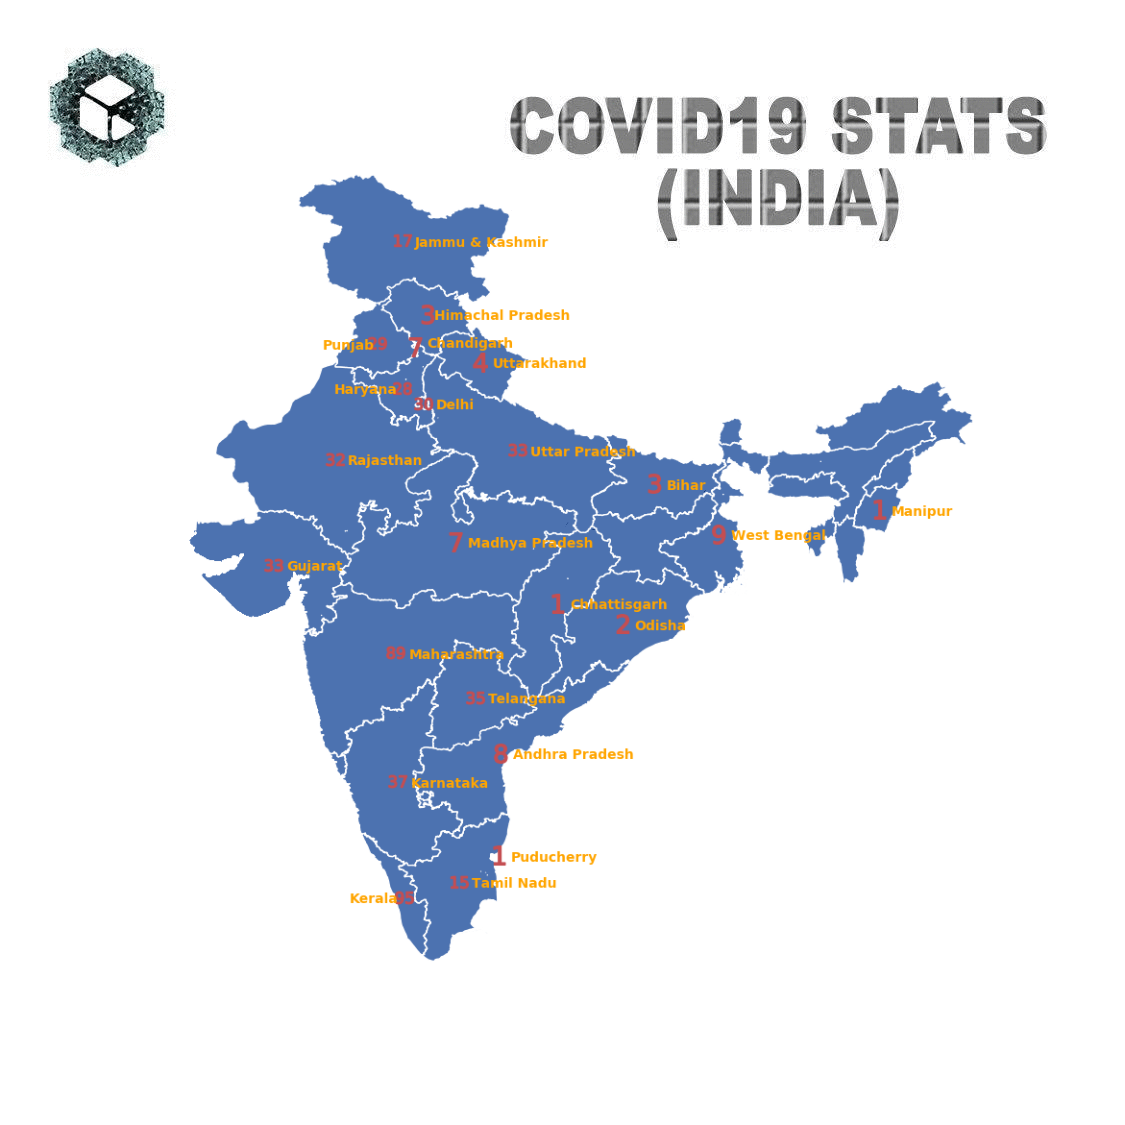
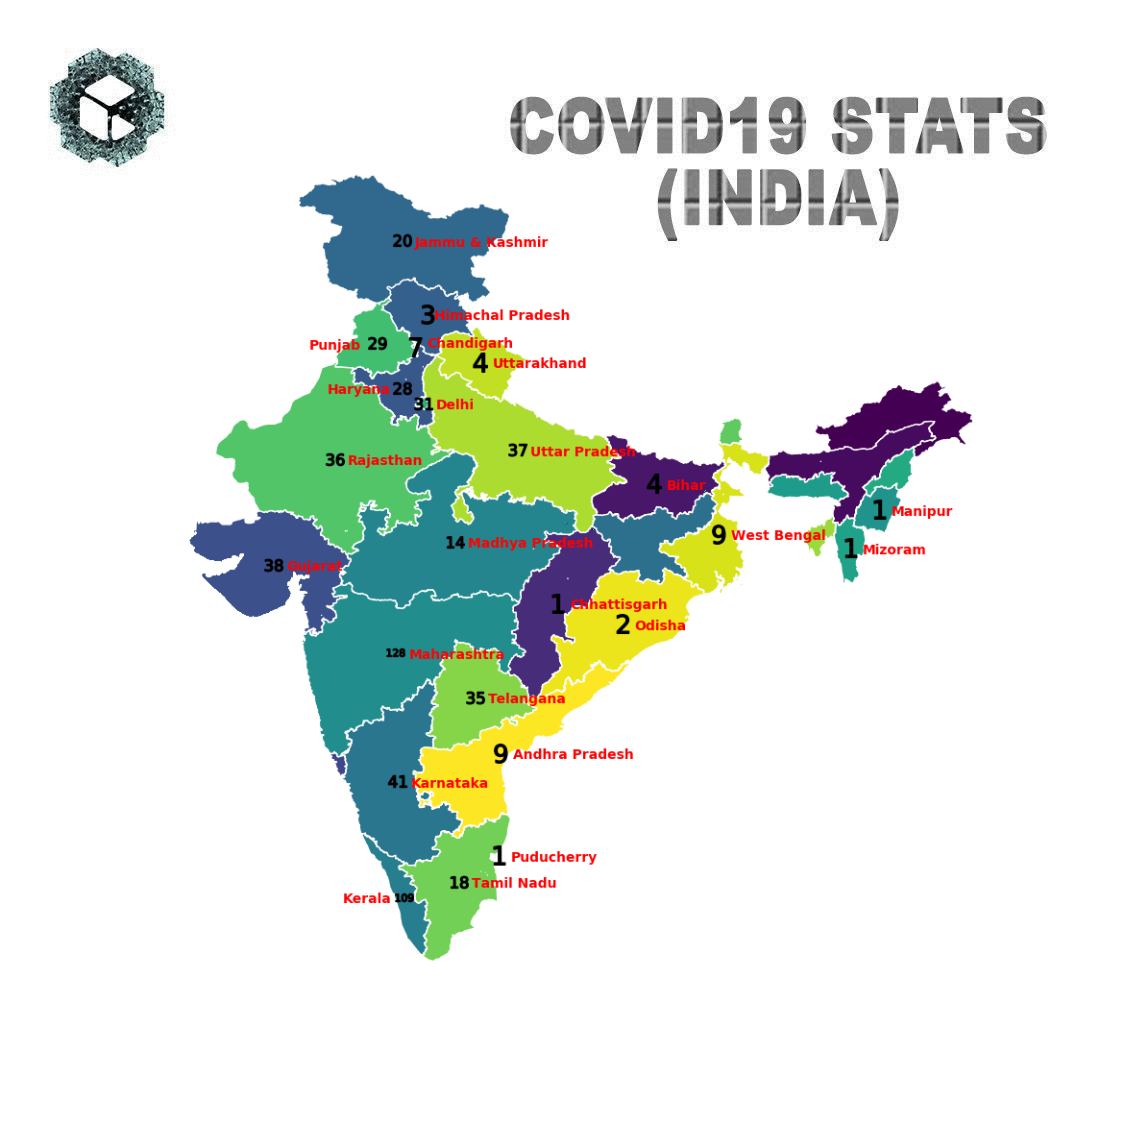
Final Corrections

Changed region(s): [[0.1556, 0.1556, 0.8711, 0.8711]]

diff --git a/map_generator.py b/map_generator.py
@@ -11,99 +11,90 @@ import json
 import urllib3
 # def calc_colour(value):
 
+if __name__ == "__main__":
+    # Load the JSON File and Fetch the Data
+    http = urllib3.PoolManager()
+    r = http.request('GET', 'http://corona.camcann.com/stats')
+    data =  json.loads(r.data.decode('utf-8'))
+    new = pd.DataFrame.from_dict(data['data']['regional'])
 
-# Load the JSON File and Fetch the Data
-http = urllib3.PoolManager()
-r = http.request('GET', 'http://corona.camcann.com/stats')
-data =  json.loads(r.data.decode('utf-8'))
-new = pd.DataFrame.from_dict(data['data']['regional'])
-
-# Including the Ladakh UT stats along with Jammu and Kashmir Region Only and other Mofifications
-for x in new.columns[:-1]:
-    new.loc[new['loc'] == 'Jammu and Kashmir',x] =   int(new.loc[new['loc'] == 'Jammu and Kashmir'][x].values + new.loc[new['loc'] == 'Ladakh'][x].values)
-new.drop(new[new['loc'] == 'Ladakh'].index, inplace = True)
-new.loc[new['loc'] == 'Telengana', 'loc'] = 'Telangana'
-new.loc[new['loc'] == 'Jammu and Kashmir', 'loc'] = 'Jammu & Kashmir'
-new.reset_index(level=0, inplace=True)
-new.drop('index', axis = 1,inplace = True)
-new.columns = ['confirmedCasesForeign', 'confirmedCasesIndian', 'deaths', 'discharged','st_nm']
-states = list(new['st_nm'])
-
-
-# ## Initialize the Visualization and Read the Template
-image = cv2.imread('template2.png')
-# image = cv2.resize(image, (1125,1125))
-image[np.where((image==[255,255,255]).all(axis=2))] = [0,0,0];
-sns.set(style = 'whitegrid', palette = 'dark', color_codes = True)
-figsize = (image.shape[0]/96,image.shape[1]/96)
-sns.set(rc={'figure.figsize':figsize})
-
-# Read the Shape Files
-shp_path = 'Indian_States.shp'
-sdf = gpd.read_file(shp_path)
-
-# Considering only the Mainland India and making modifications in dataframe
-sdf.loc[sdf['st_nm'] == 'NCT of Delhi','st_nm'] = 'Delhi'
-sdf = sdf.iloc[1:,:]
-sdf.drop([16], inplace = True)
-sdf.plot()
-
-ssdf = pd.DataFrame(sdf[sdf['st_nm'].isin(states)])
-ssdf.reset_index(level=0, inplace=True)
-ssdf.drop('index', axis = 1, inplace = True)
-print(ssdf)
-st_names = list(ssdf.st_nm)
+    # Including the Ladakh UT stats along with Jammu and Kashmir Region Only and other Mofifications
+    for x in new.columns[:-1]:
+        new.loc[new['loc'] == 'Jammu and Kashmir',x] =   int(new.loc[new['loc'] == 'Jammu and Kashmir'][x].values + new.loc[new['loc'] == 'Ladakh'][x].values)
+    new.drop(new[new['loc'] == 'Ladakh'].index, inplace = True)
+    new.loc[new['loc'] == 'Telengana', 'loc'] = 'Telangana'
+    new.loc[new['loc'] == 'Jammu and Kashmir', 'loc'] = 'Jammu & Kashmir'
+    new.reset_index(level=0, inplace=True)
+    new.drop('index', axis = 1,inplace = True)
+    new.columns = ['confirmedCasesForeign', 'confirmedCasesIndian', 'deaths', 'discharged','st_nm']
+    states = list(new['st_nm'])
 
 
-# Calculating centroid points
-ssdf['centroid_x'] = 0
-ssdf['centroid_y'] = 0
-ssdf['confirmedCases'] = 0
-print(ssdf.columns)
-print(new.columns)
-for i in ssdf.index:
-    st = ssdf.loc[i]['st_nm']
-    cc = new.loc[new['st_nm'] == st]['confirmedCasesForeign'].values + new.loc[new['st_nm'] == st]['confirmedCasesIndian'].values
-    ssdf.loc[i, 'centroid_x'] = ssdf.loc[i,'geometry'].centroid.x
-    ssdf.loc[i, 'centroid_y'] = ssdf.loc[i,'geometry'].centroid.y
-    ssdf.loc[i, 'confirmedCases'] = cc
-x_list = list(ssdf['centroid_x'])
-y_list = list(ssdf['centroid_y'])
-confirmedCases = list(ssdf['confirmedCases'])
+    # ## Initialize the Visualization and Read the Template
+    image = cv2.imread('template2.png')
+    # image = cv2.resize(image, (1125,1125))
+    image[np.where((image==[255,255,255]).all(axis=2))] = [0,0,0];
+    sns.set(style = 'whitegrid', palette = 'pastel', color_codes = True)
+    figsize = (image.shape[0]/96,image.shape[1]/96)
+    sns.set(rc={'figure.figsize':figsize})
+
+    # Read the Shape Files
+    shp_path = 'Indian_States.shp'
+    sdf = gpd.read_file(shp_path)
+
+    # Considering only the Mainland India and making modifications in dataframe
+    sdf.loc[sdf['st_nm'] == 'NCT of Delhi','st_nm'] = 'Delhi'
+    sdf = sdf.iloc[1:,:]
+    sdf.drop([16], inplace = True)
+    sdf.plot(cmap='viridis', scheme='quantiles')
+
+    ssdf = pd.DataFrame(sdf[sdf['st_nm'].isin(states)])
+    ssdf.reset_index(level=0, inplace=True)
+    ssdf.drop('index', axis = 1, inplace = True)
+    print(ssdf)
+    st_names = list(ssdf.st_nm)
+
+
+    # Calculating centroid points
+    ssdf['centroid_x'] = 0
+    ssdf['centroid_y'] = 0
+    ssdf['confirmedCases'] = 0
+    print(ssdf.columns)
+    print(new.columns)
+    for i in ssdf.index:
+        st = ssdf.loc[i]['st_nm']
+        cc = new.loc[new['st_nm'] == st]['confirmedCasesForeign'].values + new.loc[new['st_nm'] == st]['confirmedCasesIndian'].values
+        ssdf.loc[i, 'centroid_x'] = ssdf.loc[i,'geometry'].centroid.x
+        ssdf.loc[i, 'centroid_y'] = ssdf.loc[i,'geometry'].centroid.y
+        ssdf.loc[i, 'confirmedCases'] = cc
+
+    x_list = list(ssdf['centroid_x'])
+    y_list = list(ssdf['centroid_y'])
+    confirmedCases = list(ssdf['confirmedCases'])
 
 
 
 
 
-plt.axis('off')
-for i,st in enumerate(st_names):
-    # print(st)
-    if st == 'Punjab':
-        plt.text(x_list[i]-2,y_list[i]-0.2,st, fontsize=10,fontweight = 'extra bold', color = 'orange')
-    elif st == "Chandigarh":
-        plt.text(x_list[i]+0.5,y_list[i],st, fontsize=10,fontweight = 'extra bold', color = 'orange')
-    elif st == 'Himachal Pradesh':
-        plt.text(x_list[i]+0.3,y_list[i]-0.2,st, fontsize=10,fontweight = 'extra bold', color = 'orange')
-    elif st == 'Haryana':
-        plt.text(x_list[i]-2.5,y_list[i]-0.2,st, fontsize=10,fontweight = 'extra bold', color = 'orange')
-    elif st == 'Kerala':
-        plt.text(x_list[i]-2,y_list[i]-0.2,st, fontsize=10,fontweight = 'extra bold', color = 'orange')
-    else:
-        plt.text(x_list[i]+0.5,y_list[i]-0.2,st, fontsize=10,fontweight = 'extra bold', color = 'orange')
-    plt.scatter(x_list[i],y_list[i],c = 'r', s = 200, marker=r"$ {} $".format(confirmedCases[i]))
+    plt.axis('off')
+    for i,st in enumerate(st_names):
+        # print(st)
+        if st == 'Punjab':
+            plt.text(x_list[i]-2.5,y_list[i]-0.2,st, fontsize=10,fontweight = 'extra bold', color = 'red')
+        elif st == "Chandigarh":
+            plt.text(x_list[i]+0.5,y_list[i],st, fontsize=10,fontweight = 'extra bold', color = 'red')
+        elif st == 'Himachal Pradesh':
+            plt.text(x_list[i]+0.3,y_list[i]-0.2,st, fontsize=10,fontweight = 'extra bold', color = 'red')
+        elif st == 'Haryana':
+            plt.text(x_list[i]-2.75,y_list[i]-0.2,st, fontsize=10,fontweight = 'extra bold', color = 'red')
+        elif st == 'Kerala':
+            plt.text(x_list[i]-2.25,y_list[i]-0.2,st, fontsize=10,fontweight = 'extra bold', color = 'red')
+        else:
+            plt.text(x_list[i]+0.5,y_list[i]-0.2,st, fontsize=10,fontweight = 'extra bold', color = 'red')
+        plt.scatter(x_list[i],y_list[i],c = 'black', s = 200, marker=r"$ {} $".format(confirmedCases[i]))
 
-plt.savefig('map.png')
-map = cv2.imread('map.png')
-map = cv2.resize(map, (image.shape[0], image.shape[1]))
-final = image + map
-cv2.imshow('Final', final)
-
-
-k = cv2.waitKey(1)
-flag = True
-
-while flag:
-    k = cv2.waitKey(1)
-    if k == ord('q'):
-        flag = False
-        cv2.destroyAllWindows()
+    plt.savefig('map.png')
+    map = cv2.imread('map.png')
+    map = cv2.resize(map, (image.shape[0], image.shape[1]))
+    final = image + map
+    cv2.imwrite('Final.png',final)
